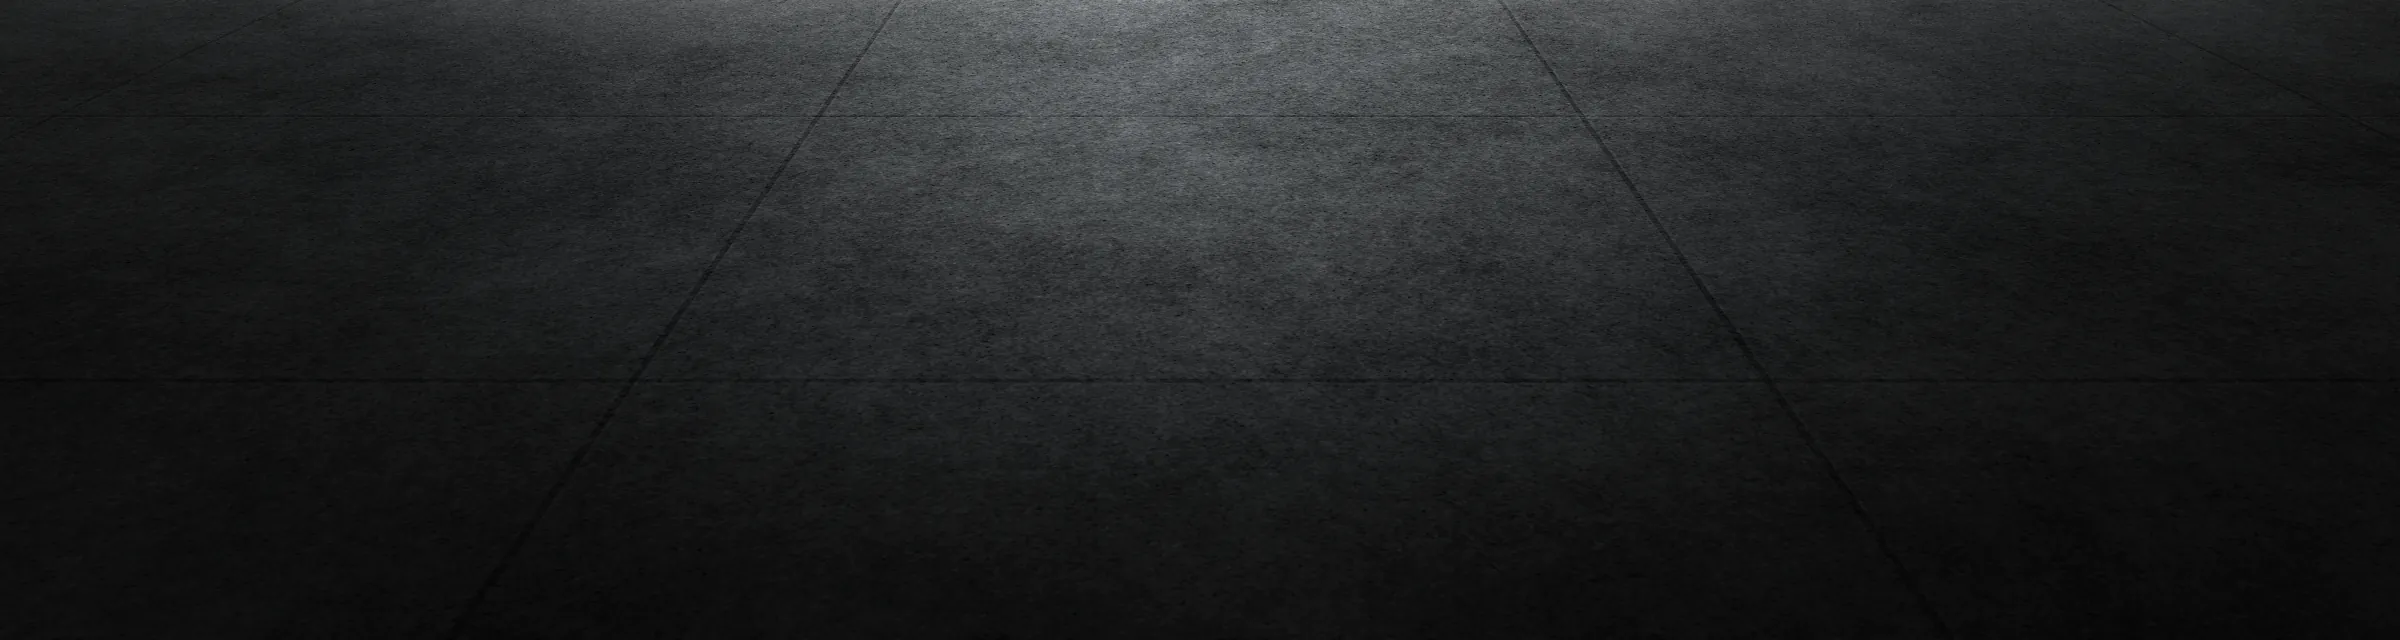
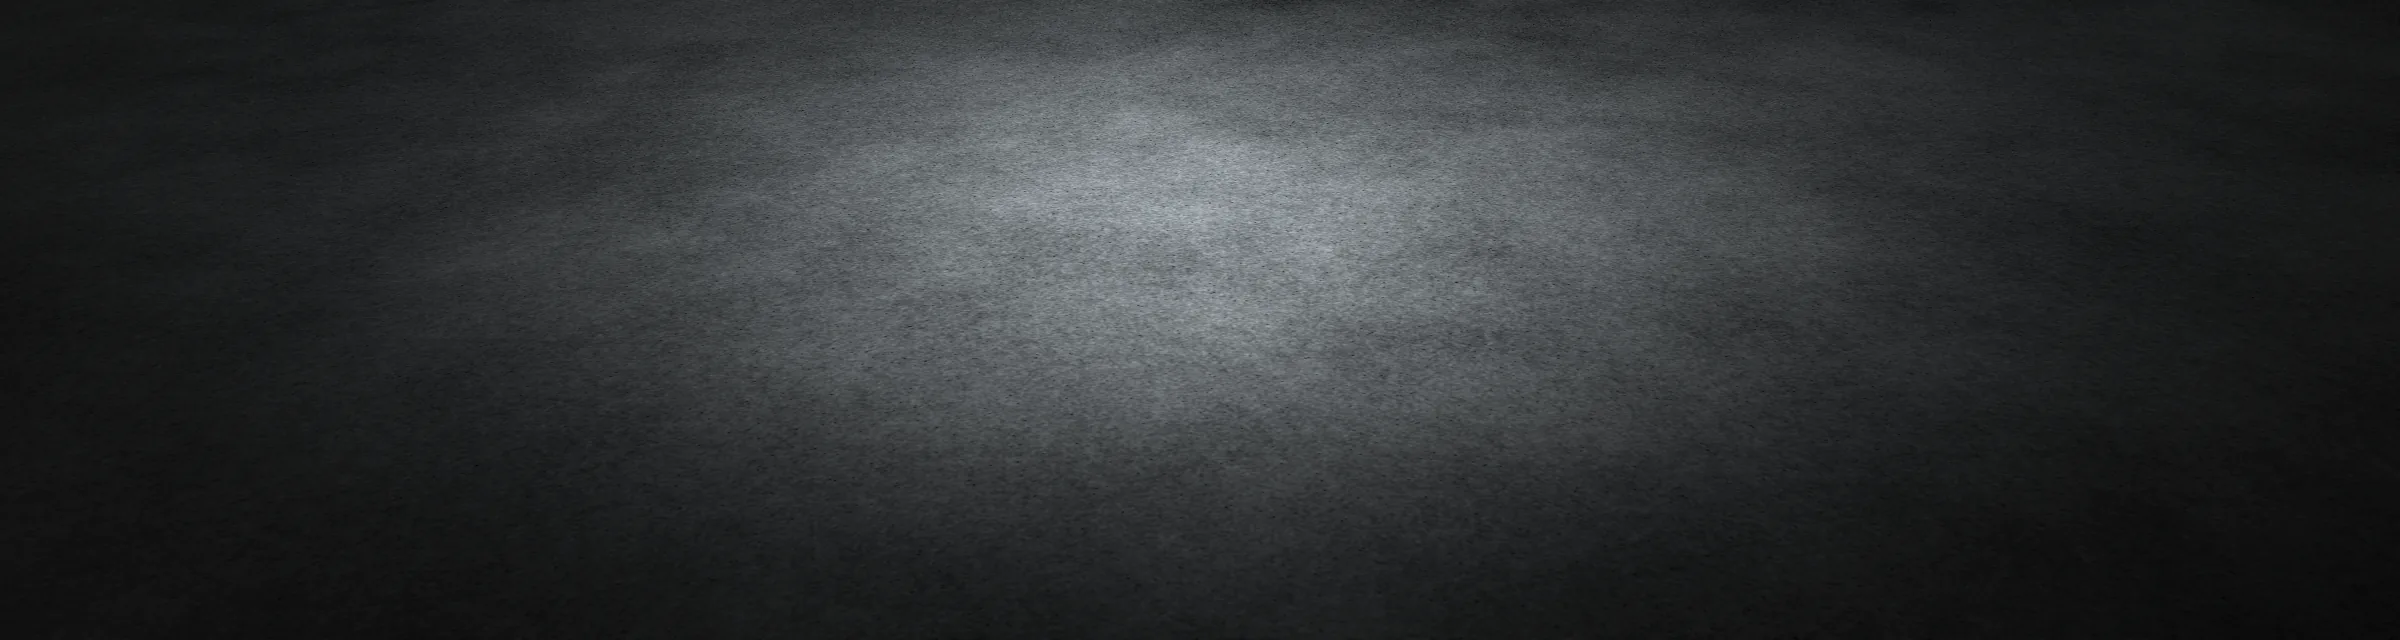
Студийный пол: пятно света, отражение, низкий дым за машиной
Claude-Session: https://claude.ai/code/session_01QJFXC4kWJ2AKcmogV8marn

diff --git a/kitay/index.html b/kitay/index.html
@@ -463,12 +463,15 @@ html[data-country=cn]{--glow1:#E8442A;--glow2:#6E1010;--glow3:#FFD45A}
 .show-photo span{position:absolute;left:12px;bottom:10px;font-size:12px;font-weight:700;letter-spacing:.2em;text-transform:uppercase}
 .show-link{position:absolute;left:var(--gut);top:calc(43% + clamp(190px,19vw,280px)*.75 + 16px);display:inline-flex;align-items:center;gap:8px;font-size:13px;font-weight:700;letter-spacing:.2em;text-transform:uppercase;text-decoration:none;color:#E6EBEA}
 .stage{position:absolute;left:50%;bottom:20%;width:min(62vw,1000px);transform:translateX(-50%);z-index:2}
-.stage::before{content:"";position:absolute;z-index:-1;left:50%;top:38%;width:200vw;margin-left:-100vw;height:100vh;-webkit-mask:linear-gradient(transparent 0,rgba(0,0,0,.35) 50px,rgba(0,0,0,.8) 110px,#000 170px);mask:linear-gradient(transparent 0,rgba(0,0,0,.35) 50px,rgba(0,0,0,.8) 110px,#000 170px);
-  background:radial-gradient(ellipse 34% 14% at 50% 22%,rgba(205,220,224,.10),transparent 70%),url(../img/hero/floor.webp) 50% 0/max(50%,1500px) auto no-repeat,#07090B}
+.stage::before{content:"";position:absolute;z-index:-1;left:50%;top:30%;width:200vw;margin-left:-100vw;height:100vh;-webkit-mask:linear-gradient(transparent 0,rgba(0,0,0,.25) 60px,rgba(0,0,0,.75) 140px,#000 210px);mask:linear-gradient(transparent 0,rgba(0,0,0,.25) 60px,rgba(0,0,0,.75) 140px,#000 210px);
+  background:url(../img/hero/floor.webp) 50% 0/max(50%,1500px) auto no-repeat,#06080A}
 .car-btn{position:relative;display:block;width:100%;padding:0;border:0;background:none;cursor:pointer;color:inherit;border-radius:12px;-webkit-tap-highlight-color:transparent}
 .hc-img{position:relative;z-index:1;display:block;width:100%;height:auto}
-.hc-refl{position:absolute;left:0;top:100%;width:100%;height:auto;transform:scaleY(-1);transform-origin:top;opacity:.18;filter:blur(2px) brightness(.7);-webkit-mask:linear-gradient(to bottom,#000,transparent 30%);mask:linear-gradient(to bottom,#000,transparent 30%);pointer-events:none}
-.car-btn::after{content:"";position:absolute;left:3%;right:3%;bottom:-2.5%;height:12%;background:radial-gradient(ellipse at center,rgba(0,0,0,.9),transparent 70%);z-index:0}
+.hc-refl{position:absolute;left:0;top:98.6%;width:100%;height:auto;transform:scaleY(-1);transform-origin:top;opacity:.32;filter:blur(3px) brightness(.55) saturate(.8);-webkit-mask:linear-gradient(to bottom,rgba(0,0,0,.9),transparent 26%);mask:linear-gradient(to bottom,rgba(0,0,0,.9),transparent 26%);pointer-events:none}
+.car-btn::after{content:"";position:absolute;left:5%;right:3%;bottom:-3%;height:9%;background:radial-gradient(ellipse 50% 50% at 50% 45%,rgba(0,0,0,.95),rgba(0,0,0,.6) 45%,transparent 75%);z-index:0;filter:blur(2px)}
+.fog{position:absolute;z-index:-1;left:50%;width:170%;height:95%;bottom:4%;transform:translateX(-50%);pointer-events:none;-webkit-mask:url(../img/hero/smoke-a.webp) center/100% 100%;mask:url(../img/hero/smoke-a.webp) center/100% 100%;background:radial-gradient(ellipse 60% 70% at 50% 85%,rgba(196,214,218,.75),rgba(150,170,176,.35) 45%,transparent 75%);animation:fog 14s ease-in-out infinite alternate}
+.fog.r{width:110%;left:auto;right:-38%;transform:none;bottom:2%;height:80%;background:radial-gradient(ellipse 60% 70% at 50% 85%,rgba(170,190,196,.6),transparent 72%);animation-duration:18s;animation-direction:alternate-reverse}
+@keyframes fog{from{translate:-3% 0}to{translate:3% -4%}}
 .gl{position:absolute;z-index:0;border-radius:50%;pointer-events:none;opacity:0;transition:opacity .35s;mix-blend-mode:screen}
 .gl.head{left:-30%;top:-10%;width:70%;height:120%;background:radial-gradient(ellipse 60% 50% at 35% 55%,rgba(210,228,255,.55),rgba(150,185,235,.18) 45%,transparent 72%)}
 .gl.tail{right:-30%;top:-25%;width:65%;height:130%;background:radial-gradient(ellipse 55% 50% at 60% 50%,rgba(255,70,50,.6),rgba(200,30,20,.22) 45%,transparent 72%)}
@@ -572,6 +575,7 @@ html[data-country=cn]{--petrol:#6B1219;--petrol-deep:#4B0B10;--flag:#DE2910;--od
     <p class="w w2" aria-hidden="true">АЛЬЯНС</p>
     <ul class="show-list"><li>Цена под ключ</li><li>Отчёты до предоплаты</li><li>Без доплат на таможне</li></ul>
     <div class="stage" id="stage">
+      <i class="fog" aria-hidden="true"></i><i class="fog r" aria-hidden="true"></i>
       <button class="car-btn" id="carBtn" type="button" aria-pressed="false" aria-label="Включить фары">
         <img class="hc-img" src="../img/hero/car.webp" alt="BMW M3 Touring" width="1600" height="502" fetchpriority="high">
         <img class="hc-refl" src="../img/hero/car.webp" alt="" aria-hidden="true" width="1600" height="502">

diff --git a/koreya/index.html b/koreya/index.html
@@ -463,12 +463,15 @@ html[data-country=cn]{--glow1:#E8442A;--glow2:#6E1010;--glow3:#FFD45A}
 .show-photo span{position:absolute;left:12px;bottom:10px;font-size:12px;font-weight:700;letter-spacing:.2em;text-transform:uppercase}
 .show-link{position:absolute;left:var(--gut);top:calc(43% + clamp(190px,19vw,280px)*.75 + 16px);display:inline-flex;align-items:center;gap:8px;font-size:13px;font-weight:700;letter-spacing:.2em;text-transform:uppercase;text-decoration:none;color:#E6EBEA}
 .stage{position:absolute;left:50%;bottom:20%;width:min(62vw,1000px);transform:translateX(-50%);z-index:2}
-.stage::before{content:"";position:absolute;z-index:-1;left:50%;top:38%;width:200vw;margin-left:-100vw;height:100vh;-webkit-mask:linear-gradient(transparent 0,rgba(0,0,0,.35) 50px,rgba(0,0,0,.8) 110px,#000 170px);mask:linear-gradient(transparent 0,rgba(0,0,0,.35) 50px,rgba(0,0,0,.8) 110px,#000 170px);
-  background:radial-gradient(ellipse 34% 14% at 50% 22%,rgba(205,220,224,.10),transparent 70%),url(../img/hero/floor.webp) 50% 0/max(50%,1500px) auto no-repeat,#07090B}
+.stage::before{content:"";position:absolute;z-index:-1;left:50%;top:30%;width:200vw;margin-left:-100vw;height:100vh;-webkit-mask:linear-gradient(transparent 0,rgba(0,0,0,.25) 60px,rgba(0,0,0,.75) 140px,#000 210px);mask:linear-gradient(transparent 0,rgba(0,0,0,.25) 60px,rgba(0,0,0,.75) 140px,#000 210px);
+  background:url(../img/hero/floor.webp) 50% 0/max(50%,1500px) auto no-repeat,#06080A}
 .car-btn{position:relative;display:block;width:100%;padding:0;border:0;background:none;cursor:pointer;color:inherit;border-radius:12px;-webkit-tap-highlight-color:transparent}
 .hc-img{position:relative;z-index:1;display:block;width:100%;height:auto}
-.hc-refl{position:absolute;left:0;top:100%;width:100%;height:auto;transform:scaleY(-1);transform-origin:top;opacity:.18;filter:blur(2px) brightness(.7);-webkit-mask:linear-gradient(to bottom,#000,transparent 30%);mask:linear-gradient(to bottom,#000,transparent 30%);pointer-events:none}
-.car-btn::after{content:"";position:absolute;left:3%;right:3%;bottom:-2.5%;height:12%;background:radial-gradient(ellipse at center,rgba(0,0,0,.9),transparent 70%);z-index:0}
+.hc-refl{position:absolute;left:0;top:98.6%;width:100%;height:auto;transform:scaleY(-1);transform-origin:top;opacity:.32;filter:blur(3px) brightness(.55) saturate(.8);-webkit-mask:linear-gradient(to bottom,rgba(0,0,0,.9),transparent 26%);mask:linear-gradient(to bottom,rgba(0,0,0,.9),transparent 26%);pointer-events:none}
+.car-btn::after{content:"";position:absolute;left:5%;right:3%;bottom:-3%;height:9%;background:radial-gradient(ellipse 50% 50% at 50% 45%,rgba(0,0,0,.95),rgba(0,0,0,.6) 45%,transparent 75%);z-index:0;filter:blur(2px)}
+.fog{position:absolute;z-index:-1;left:50%;width:170%;height:95%;bottom:4%;transform:translateX(-50%);pointer-events:none;-webkit-mask:url(../img/hero/smoke-a.webp) center/100% 100%;mask:url(../img/hero/smoke-a.webp) center/100% 100%;background:radial-gradient(ellipse 60% 70% at 50% 85%,rgba(196,214,218,.75),rgba(150,170,176,.35) 45%,transparent 75%);animation:fog 14s ease-in-out infinite alternate}
+.fog.r{width:110%;left:auto;right:-38%;transform:none;bottom:2%;height:80%;background:radial-gradient(ellipse 60% 70% at 50% 85%,rgba(170,190,196,.6),transparent 72%);animation-duration:18s;animation-direction:alternate-reverse}
+@keyframes fog{from{translate:-3% 0}to{translate:3% -4%}}
 .gl{position:absolute;z-index:0;border-radius:50%;pointer-events:none;opacity:0;transition:opacity .35s;mix-blend-mode:screen}
 .gl.head{left:-30%;top:-10%;width:70%;height:120%;background:radial-gradient(ellipse 60% 50% at 35% 55%,rgba(210,228,255,.55),rgba(150,185,235,.18) 45%,transparent 72%)}
 .gl.tail{right:-30%;top:-25%;width:65%;height:130%;background:radial-gradient(ellipse 55% 50% at 60% 50%,rgba(255,70,50,.6),rgba(200,30,20,.22) 45%,transparent 72%)}
@@ -572,6 +575,7 @@ html[data-country=cn]{--petrol:#6B1219;--petrol-deep:#4B0B10;--flag:#DE2910;--od
     <p class="w w2" aria-hidden="true">АЛЬЯНС</p>
     <ul class="show-list"><li>Цена под ключ</li><li>Отчёты до предоплаты</li><li>Без доплат на таможне</li></ul>
     <div class="stage" id="stage">
+      <i class="fog" aria-hidden="true"></i><i class="fog r" aria-hidden="true"></i>
       <button class="car-btn" id="carBtn" type="button" aria-pressed="false" aria-label="Включить фары">
         <img class="hc-img" src="../img/hero/car.webp" alt="BMW M3 Touring" width="1600" height="502" fetchpriority="high">
         <img class="hc-refl" src="../img/hero/car.webp" alt="" aria-hidden="true" width="1600" height="502">

diff --git a/yaponiya/index.html b/yaponiya/index.html
@@ -463,12 +463,15 @@ html[data-country=cn]{--glow1:#E8442A;--glow2:#6E1010;--glow3:#FFD45A}
 .show-photo span{position:absolute;left:12px;bottom:10px;font-size:12px;font-weight:700;letter-spacing:.2em;text-transform:uppercase}
 .show-link{position:absolute;left:var(--gut);top:calc(43% + clamp(190px,19vw,280px)*.75 + 16px);display:inline-flex;align-items:center;gap:8px;font-size:13px;font-weight:700;letter-spacing:.2em;text-transform:uppercase;text-decoration:none;color:#E6EBEA}
 .stage{position:absolute;left:50%;bottom:20%;width:min(62vw,1000px);transform:translateX(-50%);z-index:2}
-.stage::before{content:"";position:absolute;z-index:-1;left:50%;top:38%;width:200vw;margin-left:-100vw;height:100vh;-webkit-mask:linear-gradient(transparent 0,rgba(0,0,0,.35) 50px,rgba(0,0,0,.8) 110px,#000 170px);mask:linear-gradient(transparent 0,rgba(0,0,0,.35) 50px,rgba(0,0,0,.8) 110px,#000 170px);
-  background:radial-gradient(ellipse 34% 14% at 50% 22%,rgba(205,220,224,.10),transparent 70%),url(../img/hero/floor.webp) 50% 0/max(50%,1500px) auto no-repeat,#07090B}
+.stage::before{content:"";position:absolute;z-index:-1;left:50%;top:30%;width:200vw;margin-left:-100vw;height:100vh;-webkit-mask:linear-gradient(transparent 0,rgba(0,0,0,.25) 60px,rgba(0,0,0,.75) 140px,#000 210px);mask:linear-gradient(transparent 0,rgba(0,0,0,.25) 60px,rgba(0,0,0,.75) 140px,#000 210px);
+  background:url(../img/hero/floor.webp) 50% 0/max(50%,1500px) auto no-repeat,#06080A}
 .car-btn{position:relative;display:block;width:100%;padding:0;border:0;background:none;cursor:pointer;color:inherit;border-radius:12px;-webkit-tap-highlight-color:transparent}
 .hc-img{position:relative;z-index:1;display:block;width:100%;height:auto}
-.hc-refl{position:absolute;left:0;top:100%;width:100%;height:auto;transform:scaleY(-1);transform-origin:top;opacity:.18;filter:blur(2px) brightness(.7);-webkit-mask:linear-gradient(to bottom,#000,transparent 30%);mask:linear-gradient(to bottom,#000,transparent 30%);pointer-events:none}
-.car-btn::after{content:"";position:absolute;left:3%;right:3%;bottom:-2.5%;height:12%;background:radial-gradient(ellipse at center,rgba(0,0,0,.9),transparent 70%);z-index:0}
+.hc-refl{position:absolute;left:0;top:98.6%;width:100%;height:auto;transform:scaleY(-1);transform-origin:top;opacity:.32;filter:blur(3px) brightness(.55) saturate(.8);-webkit-mask:linear-gradient(to bottom,rgba(0,0,0,.9),transparent 26%);mask:linear-gradient(to bottom,rgba(0,0,0,.9),transparent 26%);pointer-events:none}
+.car-btn::after{content:"";position:absolute;left:5%;right:3%;bottom:-3%;height:9%;background:radial-gradient(ellipse 50% 50% at 50% 45%,rgba(0,0,0,.95),rgba(0,0,0,.6) 45%,transparent 75%);z-index:0;filter:blur(2px)}
+.fog{position:absolute;z-index:-1;left:50%;width:170%;height:95%;bottom:4%;transform:translateX(-50%);pointer-events:none;-webkit-mask:url(../img/hero/smoke-a.webp) center/100% 100%;mask:url(../img/hero/smoke-a.webp) center/100% 100%;background:radial-gradient(ellipse 60% 70% at 50% 85%,rgba(196,214,218,.75),rgba(150,170,176,.35) 45%,transparent 75%);animation:fog 14s ease-in-out infinite alternate}
+.fog.r{width:110%;left:auto;right:-38%;transform:none;bottom:2%;height:80%;background:radial-gradient(ellipse 60% 70% at 50% 85%,rgba(170,190,196,.6),transparent 72%);animation-duration:18s;animation-direction:alternate-reverse}
+@keyframes fog{from{translate:-3% 0}to{translate:3% -4%}}
 .gl{position:absolute;z-index:0;border-radius:50%;pointer-events:none;opacity:0;transition:opacity .35s;mix-blend-mode:screen}
 .gl.head{left:-30%;top:-10%;width:70%;height:120%;background:radial-gradient(ellipse 60% 50% at 35% 55%,rgba(210,228,255,.55),rgba(150,185,235,.18) 45%,transparent 72%)}
 .gl.tail{right:-30%;top:-25%;width:65%;height:130%;background:radial-gradient(ellipse 55% 50% at 60% 50%,rgba(255,70,50,.6),rgba(200,30,20,.22) 45%,transparent 72%)}
@@ -572,6 +575,7 @@ html[data-country=cn]{--petrol:#6B1219;--petrol-deep:#4B0B10;--flag:#DE2910;--od
     <p class="w w2" aria-hidden="true">АЛЬЯНС</p>
     <ul class="show-list"><li>Цена под ключ</li><li>Отчёты до предоплаты</li><li>Без доплат на таможне</li></ul>
     <div class="stage" id="stage">
+      <i class="fog" aria-hidden="true"></i><i class="fog r" aria-hidden="true"></i>
       <button class="car-btn" id="carBtn" type="button" aria-pressed="false" aria-label="Включить фары">
         <img class="hc-img" src="../img/hero/car.webp" alt="BMW M3 Touring" width="1600" height="502" fetchpriority="high">
         <img class="hc-refl" src="../img/hero/car.webp" alt="" aria-hidden="true" width="1600" height="502">

diff --git a/index.html b/index.html
@@ -463,12 +463,15 @@ html[data-country=cn]{--glow1:#E8442A;--glow2:#6E1010;--glow3:#FFD45A}
 .show-photo span{position:absolute;left:12px;bottom:10px;font-size:12px;font-weight:700;letter-spacing:.2em;text-transform:uppercase}
 .show-link{position:absolute;left:var(--gut);top:calc(43% + clamp(190px,19vw,280px)*.75 + 16px);display:inline-flex;align-items:center;gap:8px;font-size:13px;font-weight:700;letter-spacing:.2em;text-transform:uppercase;text-decoration:none;color:#E6EBEA}
 .stage{position:absolute;left:50%;bottom:20%;width:min(62vw,1000px);transform:translateX(-50%);z-index:2}
-.stage::before{content:"";position:absolute;z-index:-1;left:50%;top:38%;width:200vw;margin-left:-100vw;height:100vh;-webkit-mask:linear-gradient(transparent 0,rgba(0,0,0,.35) 50px,rgba(0,0,0,.8) 110px,#000 170px);mask:linear-gradient(transparent 0,rgba(0,0,0,.35) 50px,rgba(0,0,0,.8) 110px,#000 170px);
-  background:radial-gradient(ellipse 34% 14% at 50% 22%,rgba(205,220,224,.10),transparent 70%),url(img/hero/floor.webp) 50% 0/max(50%,1500px) auto no-repeat,#07090B}
+.stage::before{content:"";position:absolute;z-index:-1;left:50%;top:30%;width:200vw;margin-left:-100vw;height:100vh;-webkit-mask:linear-gradient(transparent 0,rgba(0,0,0,.25) 60px,rgba(0,0,0,.75) 140px,#000 210px);mask:linear-gradient(transparent 0,rgba(0,0,0,.25) 60px,rgba(0,0,0,.75) 140px,#000 210px);
+  background:url(img/hero/floor.webp) 50% 0/max(50%,1500px) auto no-repeat,#06080A}
 .car-btn{position:relative;display:block;width:100%;padding:0;border:0;background:none;cursor:pointer;color:inherit;border-radius:12px;-webkit-tap-highlight-color:transparent}
 .hc-img{position:relative;z-index:1;display:block;width:100%;height:auto}
-.hc-refl{position:absolute;left:0;top:100%;width:100%;height:auto;transform:scaleY(-1);transform-origin:top;opacity:.18;filter:blur(2px) brightness(.7);-webkit-mask:linear-gradient(to bottom,#000,transparent 30%);mask:linear-gradient(to bottom,#000,transparent 30%);pointer-events:none}
-.car-btn::after{content:"";position:absolute;left:3%;right:3%;bottom:-2.5%;height:12%;background:radial-gradient(ellipse at center,rgba(0,0,0,.9),transparent 70%);z-index:0}
+.hc-refl{position:absolute;left:0;top:98.6%;width:100%;height:auto;transform:scaleY(-1);transform-origin:top;opacity:.32;filter:blur(3px) brightness(.55) saturate(.8);-webkit-mask:linear-gradient(to bottom,rgba(0,0,0,.9),transparent 26%);mask:linear-gradient(to bottom,rgba(0,0,0,.9),transparent 26%);pointer-events:none}
+.car-btn::after{content:"";position:absolute;left:5%;right:3%;bottom:-3%;height:9%;background:radial-gradient(ellipse 50% 50% at 50% 45%,rgba(0,0,0,.95),rgba(0,0,0,.6) 45%,transparent 75%);z-index:0;filter:blur(2px)}
+.fog{position:absolute;z-index:-1;left:50%;width:170%;height:95%;bottom:4%;transform:translateX(-50%);pointer-events:none;-webkit-mask:url(img/hero/smoke-a.webp) center/100% 100%;mask:url(img/hero/smoke-a.webp) center/100% 100%;background:radial-gradient(ellipse 60% 70% at 50% 85%,rgba(196,214,218,.75),rgba(150,170,176,.35) 45%,transparent 75%);animation:fog 14s ease-in-out infinite alternate}
+.fog.r{width:110%;left:auto;right:-38%;transform:none;bottom:2%;height:80%;background:radial-gradient(ellipse 60% 70% at 50% 85%,rgba(170,190,196,.6),transparent 72%);animation-duration:18s;animation-direction:alternate-reverse}
+@keyframes fog{from{translate:-3% 0}to{translate:3% -4%}}
 .gl{position:absolute;z-index:0;border-radius:50%;pointer-events:none;opacity:0;transition:opacity .35s;mix-blend-mode:screen}
 .gl.head{left:-30%;top:-10%;width:70%;height:120%;background:radial-gradient(ellipse 60% 50% at 35% 55%,rgba(210,228,255,.55),rgba(150,185,235,.18) 45%,transparent 72%)}
 .gl.tail{right:-30%;top:-25%;width:65%;height:130%;background:radial-gradient(ellipse 55% 50% at 60% 50%,rgba(255,70,50,.6),rgba(200,30,20,.22) 45%,transparent 72%)}
@@ -572,6 +575,7 @@ html[data-country=cn]{--petrol:#6B1219;--petrol-deep:#4B0B10;--flag:#DE2910;--od
     <p class="w w2" aria-hidden="true">АЛЬЯНС</p>
     <ul class="show-list"><li>Цена под ключ</li><li>Отчёты до предоплаты</li><li>Без доплат на таможне</li></ul>
     <div class="stage" id="stage">
+      <i class="fog" aria-hidden="true"></i><i class="fog r" aria-hidden="true"></i>
       <button class="car-btn" id="carBtn" type="button" aria-pressed="false" aria-label="Включить фары">
         <img class="hc-img" src="img/hero/car.webp" alt="BMW M3 Touring" width="1600" height="502" fetchpriority="high">
         <img class="hc-refl" src="img/hero/car.webp" alt="" aria-hidden="true" width="1600" height="502">
